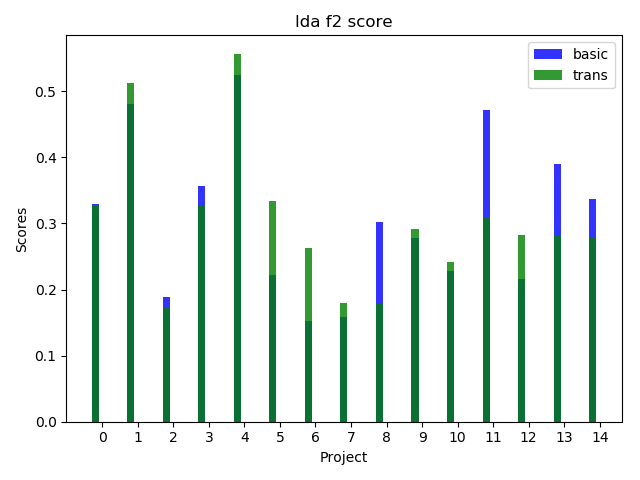
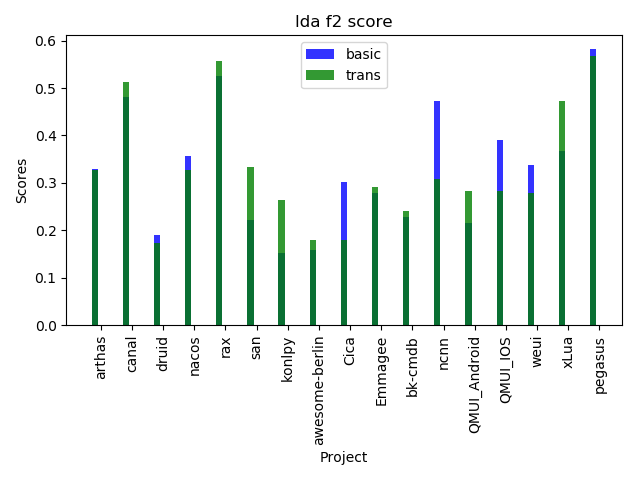
figures

diff --git a/main/reborn/experiments/Experiment2/plot/bar_chart/exp2_barchart.py b/main/reborn/experiments/Experiment2/plot/bar_chart/exp2_barchart.py
@@ -16,13 +16,14 @@ def split_gvsm(data_dict):
     return gvsms, others
 
 
-def bar_plot(data_dict, model, title):
+def bar_plot(data_dict, model, title, labels):
     key = list(data_dict.keys())[0]
     # data to plot
     n_groups = len(data_dict[key])
 
     # create plot
     fig, ax = plt.subplots()
+
     index = np.arange(n_groups)
     bar_width = 0.2
     opacity = 0.8
@@ -31,14 +32,14 @@ def bar_plot(data_dict, model, title):
                          alpha=opacity,
                          color='r',
                          label='basic')
-        rects1 = plt.bar(index + bar_width, data_dict["{}_trans".format(model)], bar_width,
+        rects1 = plt.bar(index + bar_width*1 , data_dict["{}_clwv".format(model)], bar_width,
                          alpha=opacity,
                          color='g',
-                         label='trans')
-        rects1 = plt.bar(index + bar_width*2 , data_dict["{}_clwv".format(model)], bar_width,
+                         label='cross_lingual')
+        rects1 = plt.bar(index + bar_width*2, data_dict["{}_trans".format(model)], bar_width,
                          alpha=opacity,
                          color='b',
-                         label='cross_lingual')
+                         label='trans')
     else:
         rects1 = plt.bar(index, data_dict[model], bar_width,
                          alpha=opacity,
@@ -53,8 +54,9 @@ def bar_plot(data_dict, model, title):
     plt.ylabel('Scores')
     plt.title(title)
 
-    titles = [str(x) for x in range(26)]
-    plt.xticks(index + bar_width, titles)
+    #titles = [str(x) for x in range(26)]
+    titles = [str(x) for x in labels]
+    plt.xticks(index + bar_width, titles, rotation='vertical')
     plt.legend()
 
     plt.tight_layout()
@@ -68,12 +70,13 @@ if __name__ == "__main__":
     parser.add_argument("-r", default="results")
     args = parser.parse_args()
     root = os.path.join(args.r, args.d)
-    valid_projects = ["baidu/san", "Tencent/bk-cmdb",
-                      "Tencent/ncnn", "Tencent/QMUI_Android", "Tencent/QMUI_IOS",
-                      "Tencent/weui",
-                      "NetEase/Emmagee", ]
+    valid_projects = []
     valid_projects.extend(
         ["alibaba/arthas", "alibaba/canal", "alibaba/druid", "alibaba/nacos", "alibaba/rax"])
+    valid_projects.extend(["baidu/san", "Tencent/bk-cmdb",
+                      "Tencent/ncnn", "Tencent/QMUI_Android", "Tencent/QMUI_IOS",
+                      "Tencent/weui","Tencent/xLua","XiaoMi/pegasus",
+                      "NetEase/Emmagee" ])
     valid_projects.extend(
         ["marlonbernardes/awesome-berlin", "konlpy/konlpy", "miiton/Cica"])
 
@@ -82,6 +85,7 @@ if __name__ == "__main__":
     f1_dict = {}
     f2_dict = {}
     map_dict = {}
+    labels = []
     with open(os.path.join(args.r, args.d, "result_summary.csv"), encoding='utf8') as fin:
         lines = fin.readlines()
         project_names = lines[0].split(",")
@@ -95,7 +99,9 @@ if __name__ == "__main__":
             for i in range(0, (int)((len(parts) - 1) / 3)):
                 project_name = project_names[i * 3 + 1]
                 if project_name not in valid_projects:
+                    print(project_name)
                     continue
+                labels.append(project_name)
                 f1 = float(parts[(i * 3) + 1].split(",")[2].strip("\"\n)"))
                 f2 = float(parts[(i * 3) + 2].split(",")[2].strip("\"\n)"))
                 map = float(parts[(i * 3) + 3].strip("\"\n"))
@@ -116,4 +122,4 @@ if __name__ == "__main__":
                     data_list = gvsm_data_list
                 else:
                     data_list = other_data_list
-                bar_plot(data_list[index], model, title)
+                bar_plot(data_list[index], model, title,labels)

diff --git a/main/reborn/experiments/Experiment2/data_analyzer.py b/main/reborn/experiments/Experiment2/data_analyzer.py
@@ -7,11 +7,12 @@ from DataReader import GtiProjectReader
 def en_zh_ratio(docs: dict):
     en_cnt = 0
     zh_cnt = 0
-    for doc_id in docs:
+    for doc_id in docs.keys():
         doc = docs[doc_id]
         tokens = doc.split()
         for token in tokens:
-            if re.match("[a-z]+", token) is not None:
+            match_res = re.match("[a-zA-Z0-9]+", token)
+            if match_res!=None and len(match_res.group()) == len(token):
                 en_cnt += 1
             else:
                 zh_cnt += 1
@@ -28,15 +29,12 @@ if __name__ == "__main__":
         group_dir = os.path.join(git_project_root, group_name)
         projects = os.listdir(group_dir)
         for project_name in projects:
-            if project_name != "open-korean-text" and project_name!="horaires-ratp-api":
-                continue
             repo_path = os.path.join(group_name, project_name)
             reader = GtiProjectReader(repo_path)
 
-            dataSet = reader.readData(use_translated_data=True)
             origin_dataset = reader.readData(False)
-            dataSet, dataset_info = reader.limit_artifacts_in_links(dataSet, origin_dataset)
-            print(dataSet)
+            dataSet, dataset_info = reader.limit_artifacts_in_links(origin_dataset, origin_dataset)
+            print(dataset_info)
             project_title.append(project_name)
             for link_set_id in dataSet.gold_link_sets:
                 link_set = dataSet.gold_link_sets[link_set_id]

diff --git a/main/reborn/experiments/Experiment2/exp2script.py b/main/reborn/experiments/Experiment2/exp2script.py
@@ -74,7 +74,7 @@ if __name__ == "__main__":
     models = ["gvsm"]
     # "vsm", "gvsm", "lda",lsi
     # use_translate_flags = [False,True]
-    use_translate_flags = [True, False]
+    use_translate_flags = [False,True]
     time = datetime.datetime.now().strftime("%Y%m%d-%H%M%S")
     cl_wv = None
     # cl_wv = get_cl_wv_en()
@@ -83,7 +83,7 @@ if __name__ == "__main__":
         print("Processing project {}".format(project))
         for model in models:
             for use_translate_flag in use_translate_flags:
-                exp = Experiment2(project, model, use_translate_flag, "cl_wv_en", output_sub_dir=time, lang_code="en",
+                exp = Experiment2(project, model, use_translate_flag, "cl_wv_en", output_sub_dir=time, lang_code=lang,
                                   link_threshold_interval=1)
                 exp.cl_wv = cl_wv
                 exp.run()

diff --git a/main/reborn/experiments/Experiment2/plot/box_plot/exp2_boxplot.py b/main/reborn/experiments/Experiment2/plot/box_plot/exp2_boxplot.py
@@ -37,12 +37,12 @@ if __name__ == "__main__":
     parser.add_argument("-r", default="results")
     args = parser.parse_args()
     root = os.path.join(args.r, args.d)
-    valid_projects = ["baidu/san", "Tencent/bk-cmdb",
-                      "Tencent/ncnn", "Tencent/QMUI_Android", "Tencent/QMUI_IOS",
-                      "Tencent/weui",
-                      "NetEase/Emmagee",]
+    valid_projects = []
     valid_projects.extend(
         ["alibaba/arthas", "alibaba/canal", "alibaba/druid", "alibaba/nacos", "alibaba/rax"])
+    valid_projects.extend(["baidu/san", "Tencent/bk-cmdb",
+                      "Tencent/ncnn", "Tencent/QMUI_Android", "Tencent/QMUI_IOS",
+                      "Tencent/weui","NetEase/Emmagee",])
     valid_projects.extend(
         ["marlonbernardes/awesome-berlin", "konlpy/konlpy","miiton/Cica"])
 
